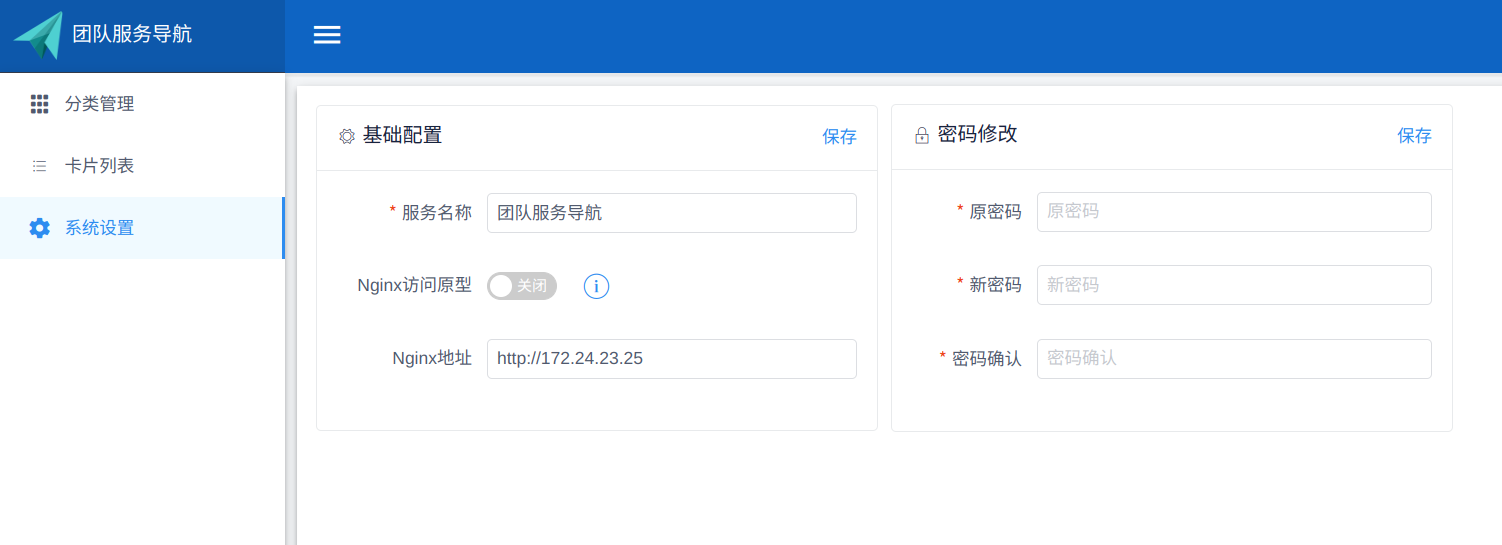
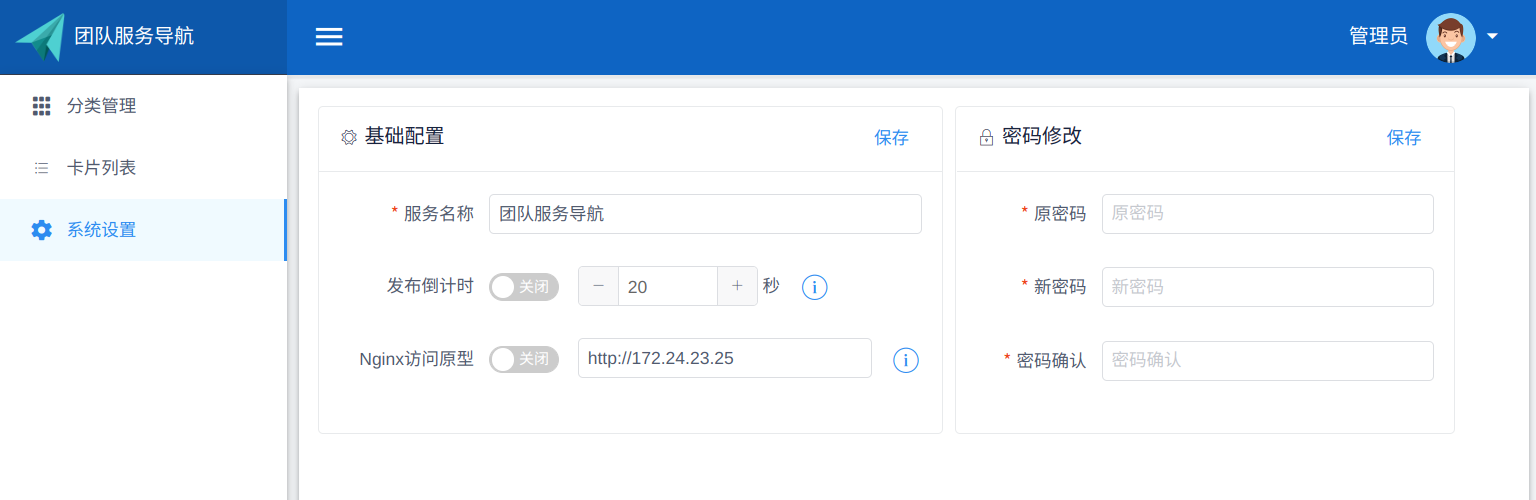
发布倒计时开关

diff --git a/src/main/resources/templates/pages/settings.html b/src/main/resources/templates/pages/settings.html
@@ -7,12 +7,24 @@
             flex-wrap: wrap;
         }
         .card-style {
-            width: 450px;
             margin: 5px;
+        }
+        .base-setting-panel{
+            width: 500px;
+        }
+        .pwd-setting-panel{
+            width: 400px;
         }
         .card-style .btn-save{
             cursor: pointer;
             padding: 5px 10px;
+        }
+        .multi-form-item {
+            display:flex;
+            align-items: center;
+        }
+        .multi-form-item .multi-form-item-input {
+            margin-left: 15px;
         }
         .setting-item-tip {
             vertical-align: -0.3em;
@@ -21,7 +33,7 @@
     </style>
     <template id="page-settings">
         <div class="setting-panel">
-            <Card class="card-style">
+            <Card class="card-style base-setting-panel">
                 <p slot="title">
                     <Icon type="ios-settings-outline"></Icon>
                     基础配置
@@ -39,33 +51,55 @@
                                  placeholder="服务名称"></i-input>
                     </form-item>
                     <form-item label="发布倒计时" prop="countdown">
-                        <i-switch size="large" v-model="settingItem.countdown">
-                            <span slot="open">开启</span>
-                            <span slot="close">关闭</span>
-                        </i-switch>
+                        <div class="multi-form-item">
+                            <div>
+                                <i-switch size="large" v-model="settingItem.countdown">
+                                    <span slot="open">开启</span>
+                                    <span slot="close">关闭</span>
+                                </i-switch>
+                            </div>
+                            <input-number :max="200"
+                                          :min="10"
+                                          v-model="settingItem.cutOverSpeed"
+                                          class="multi-form-item-input"
+                                          :editable="false"
+                                          controls-outside></input-number>
+                            <div>&nbsp;秒</div>
+                            <Tooltip transfer
+                                     max-width="320"
+                                     content="配置是否开启发布倒计时功能，可配置多个进行中的发布数据显示时的自动切换时间">
+                                <Icon class="setting-item-tip"
+                                      type="ios-information-circle-outline"
+                                      color="#2d8cf0" size="25" />
+                            </Tooltip>
+                        </div>
                     </form-item>
                     <form-item label="Nginx访问原型" prop="nginxOpen">
-                        <i-switch size="large" v-model="settingItem.nginxOpen">
-                            <span slot="open">开启</span>
-                            <span slot="close">关闭</span>
-                        </i-switch>
-
-                        <Tooltip max-width="320" content="可以配置通过Nginx来访问原型文件，避免本服务挂了影响原型访问，Nginx配置可参考README.md，开启后访问原型时将跳转Nginx地址">
-                            <Icon class="setting-item-tip"
-                                  type="ios-information-circle-outline"
-                                  color="#2d8cf0" size="25" />
-                        </Tooltip>
-                    </form-item>
-                    <form-item label="Nginx地址" prop="nginxUrl">
-                        <i-input type="text"
-                                 maxlength="100"
-                                 clearable
-                                 v-model.trim="settingItem.nginxUrl"
-                                 placeholder="Nginx地址"></i-input>
+                        <div class="multi-form-item">
+                            <div>
+                                <i-switch size="large" v-model="settingItem.nginxOpen">
+                                    <span slot="open">开启</span>
+                                    <span slot="close">关闭</span>
+                                </i-switch>
+                            </div>
+                            <i-input type="text"
+                                     maxlength="100"
+                                     clearable
+                                     class="multi-form-item-input"
+                                     v-model.trim="settingItem.nginxUrl"
+                                     placeholder="Nginx地址"></i-input>
+                            <Tooltip transfer
+                                     max-width="320"
+                                     content="可以配置通过Nginx来访问原型文件，避免本服务挂了影响原型访问，Nginx配置可参考README.md，开启后访问原型时将跳转Nginx地址">
+                                <Icon class="setting-item-tip"
+                                      type="ios-information-circle-outline"
+                                      color="#2d8cf0" size="25" />
+                            </Tooltip>
+                        </div>
                     </form-item>
                 </i-form>
             </Card>
-            <Card class="card-style" th:if="${changePwdEnable}">
+            <Card class="card-style pwd-setting-panel" th:if="${changePwdEnable}">
                 <p slot="title">
                     <Icon type="ios-lock-outline"></Icon>
                     密码修改
@@ -109,6 +143,7 @@
                     settingItem: {
                         navName: '',
                         countdown: false,
+                        cutOverSpeed: 10,
                         nginxOpen: false,
                         nginxUrl: ''
                     },
@@ -161,6 +196,7 @@
                     this.$http.get(`/api/v1/setting`)
                         .then(res => {
                             this.settingItem = res.data;
+                            this.settingItem.cutOverSpeed = res.data.cutOverSpeed || 10;
                             this.settingItem.countdown = Boolean(res.data.countdown);
                             this.settingItem.nginxOpen = Boolean(res.data.nginxOpen);
                         })

diff --git a/src/main/resources/templates/modal/countdown-modal.html b/src/main/resources/templates/modal/countdown-modal.html
@@ -65,13 +65,16 @@
                 save() {
                     this.$refs.tableForm.validate(valid => {
                         if (valid) {
+                            this.editItem.endTime = this.editItem.endTime.toLocaleString().replaceAll('/','-').replace(' ','T')
                             this.$http.save('/api/v1/countdown', {...this.editItem})
-                                .then(res => {
+                                .then(() => {
                                     this.$notice.suc('保存成功');
                                     this.show = false;
                                     this.$emit('refresh');
                                 })
                                 .catch(err => {
+                                    console.error(err);
+                                    this.$notice.err(err && err.response && err.response.data);
                                     this.cancel();
                                 });
                         } else {

diff --git a/src/main/resources/templates/modal/category-modal.html b/src/main/resources/templates/modal/category-modal.html
@@ -56,12 +56,14 @@
                     this.$refs.tableForm.validate(valid => {
                         if (valid) {
                             this.$http.save('/api/v1/category', {...this.editItem})
-                                .then(res => {
+                                .then(() => {
                                     this.$notice.suc('保存成功');
                                     this.show = false;
                                     this.$emit('refresh');
                                 })
                                 .catch(err => {
+                                    console.error(err);
+                                    this.$notice.err(err && err.response && err.response.data);
                                     this.cancel();
                                 });
                         } else {

diff --git a/src/main/resources/templates/pages/countdown.html b/src/main/resources/templates/pages/countdown.html
@@ -5,6 +5,9 @@
     <template id="page-countdown">
         <div>
             <div class="search-panel">
+                <div class="panel-left">
+                    <Alert show-icon>开关及切换时间请在在系统设置中设置</Alert>
+                </div>
                 <div class="panel-right">
                     <i-button type="success"
                               icon="md-add"

diff --git a/src/main/resources/templates/components/carousel-flip-countdown.html b/src/main/resources/templates/components/carousel-flip-countdown.html
@@ -20,7 +20,7 @@
     <Carousel v-model="carousel"
               autoplay
               class="carousel-panel"
-              autoplay-speed="10000"
+              th:autoplay-speed="${cutOverSpeed}"
               :arrow="arrow"
               dots="none">
       <carousel-item v-for="item in datas" :key="item.id">

diff --git a/src/main/resources/static/assets/css/index.css b/src/main/resources/static/assets/css/index.css
@@ -387,7 +387,7 @@
     padding-top: 10px
 }
 .header-search{
-    width: 350px;
+    flex: 1;
 }
 
 .no-data {

diff --git a/src/main/java/com/tuituidan/openhub/service/SettingService.java b/src/main/java/com/tuituidan/openhub/service/SettingService.java
@@ -32,6 +32,8 @@ public class SettingService implements ApplicationRunner {
 
     private boolean countdown;
 
+    private Integer cutOverSpeed;
+
     @Override
     public void run(ApplicationArguments args) throws Exception {
         Setting setting = get();
@@ -59,6 +61,15 @@ public class SettingService implements ApplicationRunner {
      */
     public String getNginxUrl() {
         return nginxUrl;
+    }
+
+    /**
+     * getCutOverSpeed
+     *
+     * @return Integer
+     */
+    public Integer getCutOverSpeed() {
+        return (cutOverSpeed == null ? 10 : cutOverSpeed) * 1000;
     }
 
     /**
@@ -97,6 +108,7 @@ public class SettingService implements ApplicationRunner {
                 ? setting.getNginxUrl() : StringUtils.EMPTY;
         this.navName = setting.getNavName();
         this.countdown = BooleanUtils.isTrue(setting.getCountdown());
+        this.cutOverSpeed = setting.getCutOverSpeed();
     }
 
 }

diff --git a/src/main/java/com/tuituidan/openhub/service/cardtype/CardTypeZipServiceImpl.java b/src/main/java/com/tuituidan/openhub/service/cardtype/CardTypeZipServiceImpl.java
@@ -48,7 +48,7 @@ public class CardTypeZipServiceImpl implements ICardTypeService {
         CardIconDto cardIconDto = card.getIcon();
         List<String> deletePaths = new ArrayList<>();
         if (StringUtils.isNotBlank(cardIconDto.getSrc())
-                && StringUtils.contains(cardIconDto.getSrc(), "default")) {
+                && !StringUtils.contains(cardIconDto.getSrc(), "default")) {
             deletePaths.add(cardIconDto.getSrc());
         }
         deletePaths.add(card.getZip().getPath());

diff --git a/src/main/java/com/tuituidan/openhub/controller/ViewController.java b/src/main/java/com/tuituidan/openhub/controller/ViewController.java
@@ -41,6 +41,7 @@ public class ViewController {
         request.setAttribute("navName", settingService.getNavName());
         request.setAttribute("isIe", RequestUtils.isIe());
         request.setAttribute("countdown", settingService.getCountdown());
+        request.setAttribute("cutOverSpeed", settingService.getCutOverSpeed());
         return "index";
     }
 

diff --git a/src/main/java/com/tuituidan/openhub/bean/entity/Setting.java b/src/main/java/com/tuituidan/openhub/bean/entity/Setting.java
@@ -44,4 +44,7 @@ public class Setting implements Serializable {
 
     @Column(name = "C_COUNTDOWN")
     private Boolean countdown;
+
+    @Column(name = "N_CUTOVER_SPEED")
+    private Integer cutOverSpeed;
 }

diff --git a/src/main/java/com/tuituidan/openhub/bean/dto/SettingDto.java b/src/main/java/com/tuituidan/openhub/bean/dto/SettingDto.java
@@ -21,4 +21,6 @@ public class SettingDto {
     private String navName;
 
     private Boolean countdown;
+
+    private Integer cutOverSpeed;
 }

diff --git a/README.md b/README.md
@@ -4,7 +4,7 @@
 
 ## 简介
 
-前后端完整的网址导航服务，本系统定位于研发团队内部使用，提供多种的卡片图标生成方式，以保持页面美观，能将上传的原型压缩包自动生成可访问的地址。
+前后端完整的网址导航服务，本系统定位于研发团队内部使用，提供多种的卡片图标生成方式，能将上传的原型压缩包自动生成可访问的地址，支持私密卡片，发布倒计时等功能。
 
 **Github:** https://github.com/tuituidan/team-nav
 
@@ -27,13 +27,14 @@
   - 原型类型：标题，内容，图标，原型文件为必填，原型文件上传后会自动生成原型展示的链接，点击卡片可跳转到该地址。
   - 二维码类型：标题，内容，图标，链接均为必填，鼠标滑到卡片上会显示链接的二维码，可用手机进行扫描，方便进行移动端网址显示，[二维码展示图](#二维码展示图)。
 - 原型可通过配置Nginx访问，[后台-系统设置图](#后台-系统设置图)。
+- 发布倒计时功能，在首页对项目发布截止时间进行提醒，在系统设置中进行开启和关闭，同时有多个进行中的发布数据时，会定时切换，切换时间也在系统设置中设置。 [首页-发布倒计时](#首页-发布倒计时)  [后台-发布倒计时](#后台-发布倒计时)
 
 ## 设计说明
 
 - 以SpringDataJpa+H2数据库（文件存储方式）的方式进行数据存储，避免单独部署数据库，直接启动jar包，自动生成。
 - 上传的图标，原型文件等，均以本系统resource方式存储（能通过链接访问），也是为了避免单独引入其他对象存储中间件，保持系统小巧。
 - 本系统定位就是团队内部导航，不是那种提供很多公共服务的网址导航服务，作者在使用时往往一个分类就是一个项目名称，正在运行中的项目不会太多，所以分类没有做二级分类，当一个项目已经归档，就可以移除到历史分类中，以后需要还原回来即可。
-- 本系统来源于作者在公司内部开源的一个项目，本来有一些自动登录、单点登录及卡片权限分配等功能，但这些都是需要公司有对应的公共服务才行，所以本系统就阉割成了只有一个管理员维护，管理员账号密码直接在application.yml中配置，保留了一个私密卡片权限，需要登录才可看到。
+- 本系统来源于作者在公司内部开源的一个项目，本来有一些自动登录、单点登录及卡片权限分配等功能，但这些都是需要公司有对应的公共服务才行，所以本系统就阉割成了只有一个管理员维护，管理员账号密码直接在application.yml中配置（V1.0.6新增在线修改功能），保留了一个私密卡片权限，需要登录才可看到。
 - 原型文件的上传算是本系统一个亮点，也正是因为定位于研发团队内部使用，才有这样的功能。很多需求人员画了原型并不懂怎么静态部署，往往直接发压缩包给研发人员，再多改几次需求，压缩包就传来传去一大堆，非常的麻烦。本系统只需要需求人员将导出的原型文件打包成zip压缩包上传即可直接生成访问链接，需求人员用了都说好，研发需求关系更加和谐了。
 - 系统使用vue但是并未前后端分离，一来是系统本来也小，懒得单独建前端工程，二来也是作者想尝试一下通过后端thymeleaf来完成前端页面的模块组件的开发，过程中也是碰到一些问题，只能说，这种方式并不适合用在实际的项目中，不然坑还是比较多的。
 
@@ -73,7 +74,7 @@ docker run -d -p 8082:8080 \
 -v /opt/team-nav/database:/database \
 -v /opt/team-nav/ext-resources:/ext-resources \
 -e nav-name="团队导航服务" \
-registry.cn-chengdu.aliyuncs.com/tuituidan/team-nav:1.0.6
+registry.cn-chengdu.aliyuncs.com/tuituidan/team-nav:1.0.7
 
 ```
 
@@ -106,21 +107,27 @@ location /ext-resources/modules {
 
 ## 版本说明
 
+- 1.0.7
+
+  - 修复默认图标被删除的bug
+  - 优化部分样式
+  - 新增发布倒计时功能（详见功能说明-发布倒计时）
+  
 - 1.0.6
 
   - 优化调整了一些页面样式。
-  
+
   - 解决IE下因tooltip导致首页面抖动问题。
-  
+
   - 系统设置页面新增密码修改功能([系统设置图](#后台-系统设置图))，默认关闭，页面不显示密码修改框，需要通过`yml`配置中的`change-password.enable`开启。
-  
+
     - 该配置关闭时，密码修改还是老方式，通过修改yml中的spring.security.user.password配置来修改密码。
     - 该配置开启时，系统设置页面才会出现密码修改框，密码将存入数据库，修改配置中的密码将不会生效，但首次启动密码读取的仍然是配置文件中的密码。
-  
+
     > 如果并不希望密码随便就能被其他成员修改，请谨慎开启，毕竟是大家共用一个用户。
-  
+
   - 系统设置页面新增`服务名称`修改，首次启动会读取`yml`中的`nav-name`配置值。
-  
+
 - 1.0.5
 
   - 优化了一些页面样式。
@@ -174,6 +181,10 @@ location /ext-resources/modules {
 
 ![home](https://user-images.githubusercontent.com/20398244/198856571-2a46ccdf-1de1-47c2-8f13-28658e09d21d.png)
 
+#### 首页-发布倒计时
+
+![首页-发布倒计时](https://user-images.githubusercontent.com/20398244/203549893-605fa437-a171-414a-9ff3-71f832dcdfe9.png)
+
 #### 后台-分类管理图
 
 ![admin-category](https://user-images.githubusercontent.com/20398244/198856552-72d92b6d-2ce0-4ca6-85cc-e9ef8e629e4b.png)
@@ -200,6 +211,10 @@ location /ext-resources/modules {
 
 ![qrcode](https://user-images.githubusercontent.com/20398244/198856580-a7748b13-3310-44e7-9562-8419e20bc3b9.png)
 
+#### 后台-发布倒计时
+
+![后台-发布倒计时](https://user-images.githubusercontent.com/20398244/203557228-92c878c5-b09e-463d-9639-36b7aecd6d01.png)
+
 #### 后台-系统设置图
 
-![admin-system](https://user-images.githubusercontent.com/20398244/202721041-7a1aae70-b729-4cfc-b07f-707848a2a429.png)
+![admin-system](https://user-images.githubusercontent.com/20398244/203549539-a8a67ec3-853c-42bd-8cab-af8180c05030.png)
